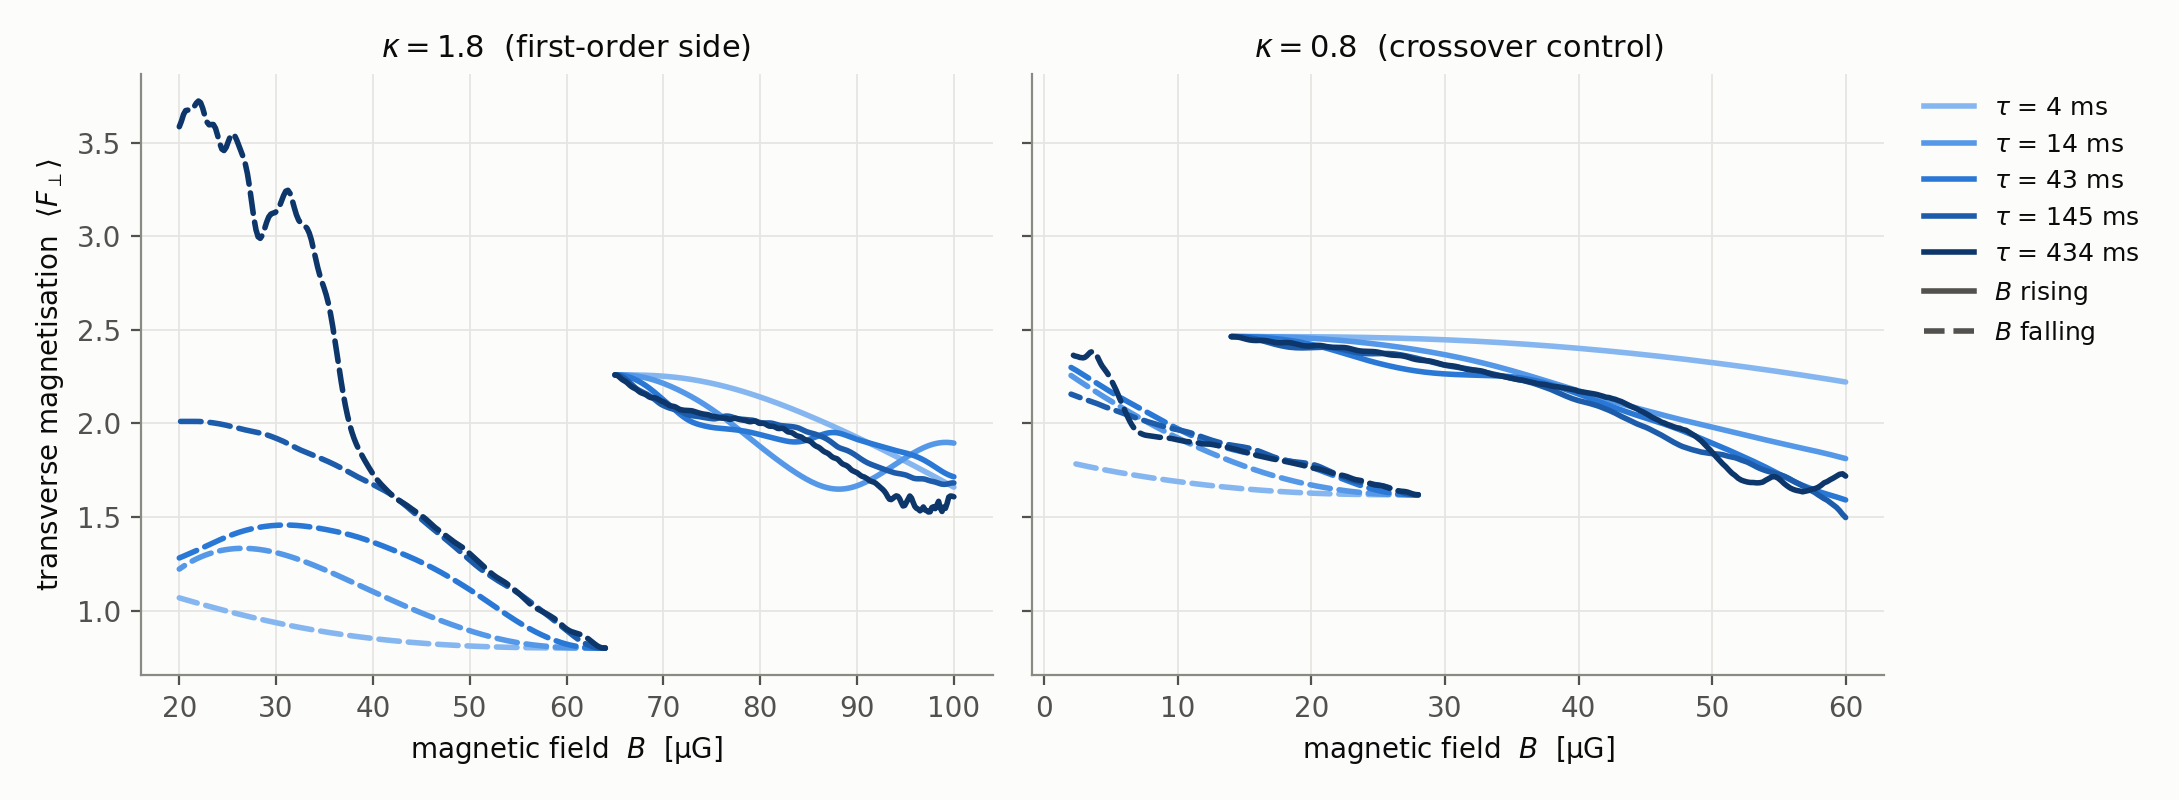
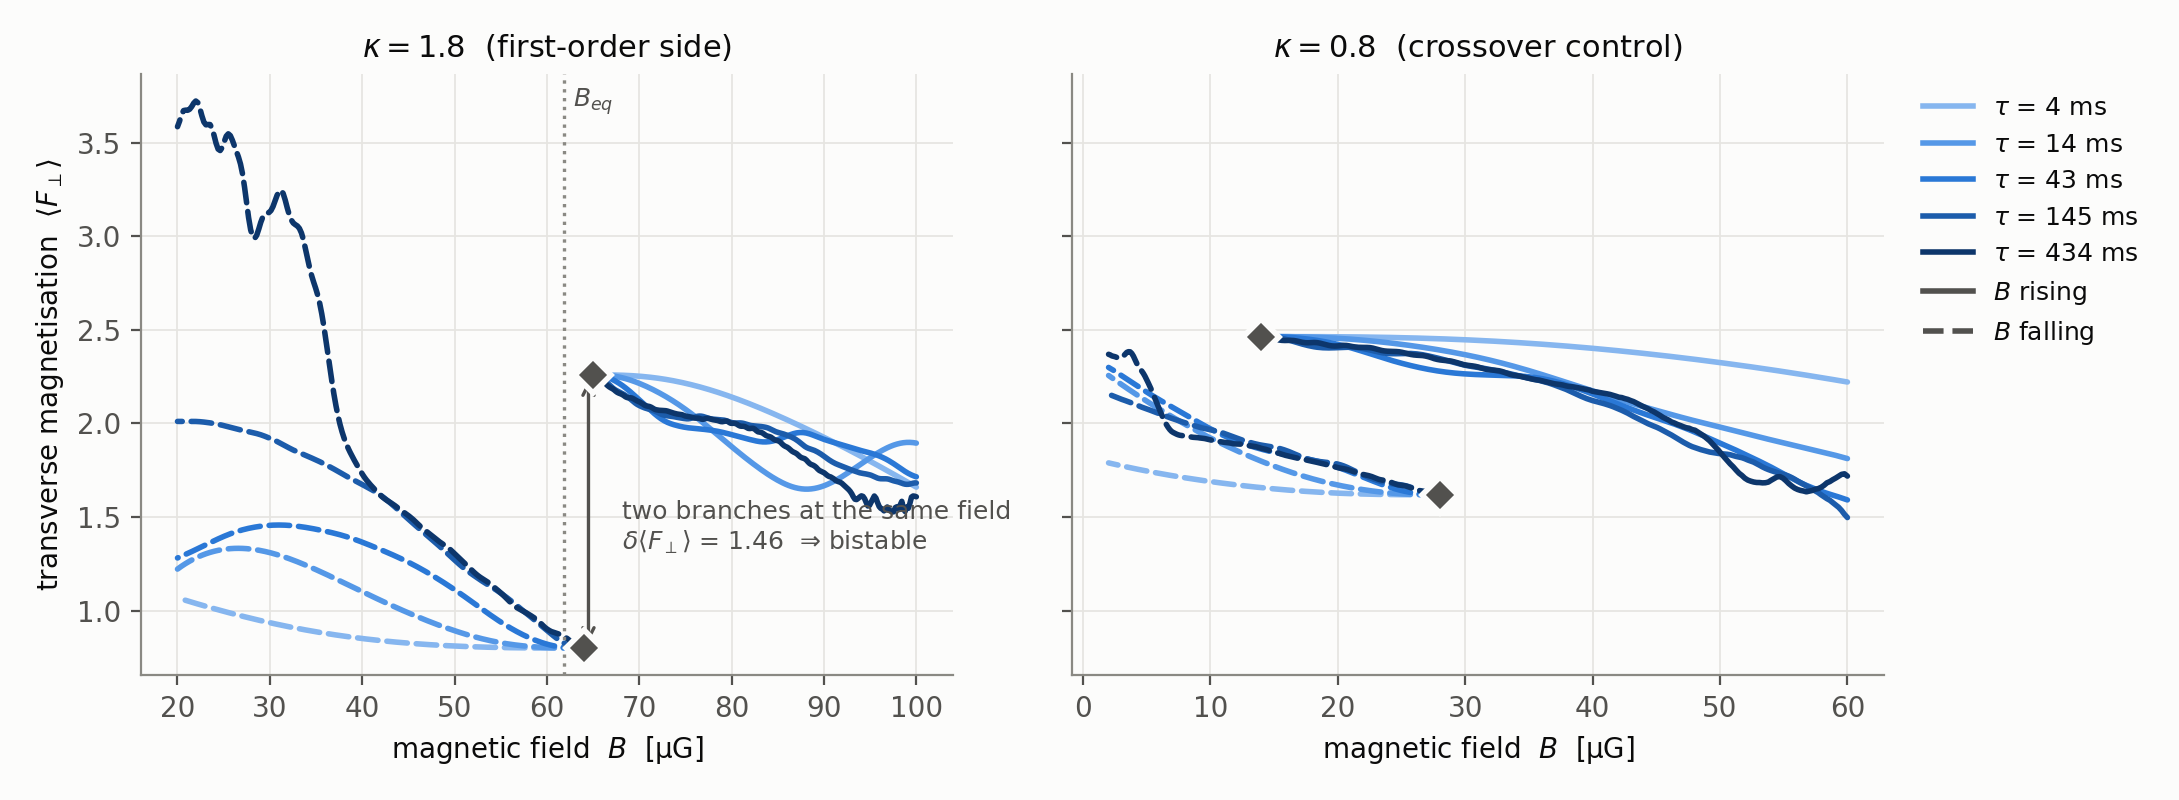
docs(eu-adiabatic): annotate what the break between the two curve families is
The figure showed two disjoint arcs and left the reader to guess. It is two
different things and only one is physics:

- horizontally (64 -> 65 uG) there is no data. Each leg starts from the
  converged GS of the branch metastable in its own direction, and the library
  has no low-field flower state at kappa=1.8 — the campaign that built it
  bracketed B_eq and stopped.
- vertically at that seam is the result: 0.80 vs 2.26 at the same field,
  d<F_perp> = 1.46. Two states coexisting at one field IS the bistability.

Mark both seeds, draw the separation, and label B_eq. The annotation is drawn
only when the two seeds sit within 2 uG of each other — at kappa=0.8 they are
14 and 28 uG apart by design, where the offset between them is the field
dependence of a single branch, not a branch separation.

Assisted-by: Claude Code (model: claude-opus-5[1m])

diff --git a/scripts/viz_eu_adiabatic_ramp.py b/scripts/viz_eu_adiabatic_ramp.py
@@ -91,7 +91,8 @@ def leg_conversion(leg: dict) -> tuple[float, float, float]:
     return span, peak, b_jump
 
 
-def fig_hysteresis(runs: dict, out: Path) -> None:
+def fig_hysteresis(runs: dict, out: Path,
+                   b_eq_by_kappa: dict[float, float] | None = None) -> None:
     kappas = sorted(runs, reverse=True)
     # +1.7in for the legend, which sits OUTSIDE the last axes: the curves fill both
     # the upper-left (converted branch) and the right (metastable branch), so an
@@ -99,6 +100,7 @@ def fig_hysteresis(runs: dict, out: Path) -> None:
     fig, axes = plt.subplots(1, len(kappas),
                              figsize=(4.6 * len(kappas) + 1.7, 4.0), sharey=True)
     axes = np.atleast_1d(axes)
+    b_eq_by_kappa = b_eq_by_kappa or {}
     taus = sorted({t for e in runs.values() for (_, t) in e["legs"]})
     colour = {t: TAU_RAMP[min(i, len(TAU_RAMP) - 1)]
               for i, t in enumerate(taus)}
@@ -113,6 +115,42 @@ def fig_hysteresis(runs: dict, out: Path) -> None:
             ax.plot(leg["B_uG"], leg["fperp"], color=colour[tau],
                     linestyle="-" if tag == "rise" else "--",
                     solid_capstyle="round", dash_capstyle="round")
+        # Mark where each leg STARTS. The legs begin at different fields because
+        # each is seeded from the converged branch that is metastable in its own
+        # direction, and the library has no low-field flower state at κ = 1.8 — so
+        # the horizontal break between them is missing data, not physics. The
+        # VERTICAL offset at that seam is the physics: two branches coexisting at
+        # the same field, separated by δ⟨F⊥⟩.
+        seeds = {}
+        for tag in ("rise", "fall"):
+            legs = [(t, leg) for (g, t), leg in entry["legs"].items() if g == tag]
+            if not legs:
+                continue
+            _, leg = legs[0]
+            i = 0 if tag == "rise" else 0
+            seeds[tag] = (float(leg["B_uG"][i]), float(leg["fperp"][i]))
+            ax.plot(*seeds[tag], marker="D", markersize=9, color=INK2,
+                    markeredgecolor=SURFACE, markeredgewidth=2.0, zorder=6)
+        # Only meaningful when the two seeds sit at essentially the SAME field —
+        # otherwise the vertical offset between them mixes the branch separation
+        # with the field dependence along one branch.
+        if len(seeds) == 2 and abs(seeds["rise"][0] - seeds["fall"][0]) <= 2.0:
+            (b_r, f_r), (b_f, f_f) = seeds["rise"], seeds["fall"]
+            gap = abs(f_r - f_f)
+            b_mid = 0.5 * (b_r + b_f)
+            ax.annotate("", xy=(b_mid, f_r), xytext=(b_mid, f_f),
+                        arrowprops=dict(arrowstyle="<->", color=INK2, lw=1.2))
+            ax.annotate(f"two branches at the same field\n"
+                        f"$\\delta\\langle F_\\perp\\rangle$ = {gap:.2f}"
+                        + ("  ⇒ bistable" if gap > 0.3 else "  ⇒ one branch"),
+                        xy=(b_mid, 0.5 * (f_r + f_f)), xytext=(12, -6),
+                        textcoords="offset points", ha="left", va="center",
+                        color=INK2, fontsize=9)
+        b_eq = b_eq_by_kappa.get(kappa)
+        if b_eq is not None and math.isfinite(b_eq):
+            ax.axvline(b_eq, color=INK3, lw=1.2, ls=":")
+            ax.annotate(f"$B_{{eq}}$", xy=(b_eq, ax.get_ylim()[1]), xytext=(3, -12),
+                        textcoords="offset points", color=INK2, fontsize=9)
         ax.grid(axis="both", alpha=0.9)
         ax.set_axisbelow(True)
         ax.set_xlabel("magnetic field  $B$  [µG]")
@@ -236,7 +274,8 @@ def main() -> None:
     if not runs:
         raise SystemExit(f"no runs under {a.data}")
     a.out.mkdir(parents=True, exist_ok=True)
-    fig_hysteresis(runs, a.out / "eu_adiabatic_hysteresis.png")
+    fig_hysteresis(runs, a.out / "eu_adiabatic_hysteresis.png",
+                   static_b_eq(a.window))
     fig_conversion(runs, a.out / "eu_adiabatic_conversion.png")
     fig_sg_signal(runs, a.out / "eu_adiabatic_sg_signal.png")
 

diff --git a/docs/guides/eu_adiabatic_protocol.md b/docs/guides/eu_adiabatic_protocol.md
@@ -122,6 +122,22 @@ measures.
 
 ![order parameter vs field](figures/eu_adiabatic_hysteresis.png)
 
+**Reading the break between the two families of curves.** It is two different
+things, and only one of them is physics:
+
+- *Horizontally* (64 → 65 µG at $\kappa = 1.8$) there is simply no data. Each leg
+  starts from the converged ground state of the branch that is metastable in its
+  own direction, and the library has no low-field flower state at $\kappa = 1.8$ —
+  the campaign that built it bracketed $B_{eq}$ and stopped. So the rising leg can
+  only start at 65 µG and the falling leg at 64 µG. Generating flower seeds down to
+  20 µG would let both legs span one window and turn the loop into a single number;
+  that is the natural next run.
+- *Vertically* at that seam is the result: at the same field the two branches sit at
+  $\langle F_\perp\rangle = 0.80$ and $2.26$, i.e. $\delta\langle F_\perp\rangle = 1.46$.
+  Two states coexisting at one field **is** the bistability. The $\kappa = 0.8$ facet
+  has no such offset — its two seeds differ only through the field dependence of one
+  branch, which is why no separation is annotated there.
+
 So the field route *does* prepare the flower state — at $\tau \approx 0.4$ s, sweeping
 to below 30 µG — but the overshoot and ringing say it arrives **excited**, not as a
 cold ground state. The loop is wide and asymmetric: $[\approx 27, > 100]\ \mu$G,
